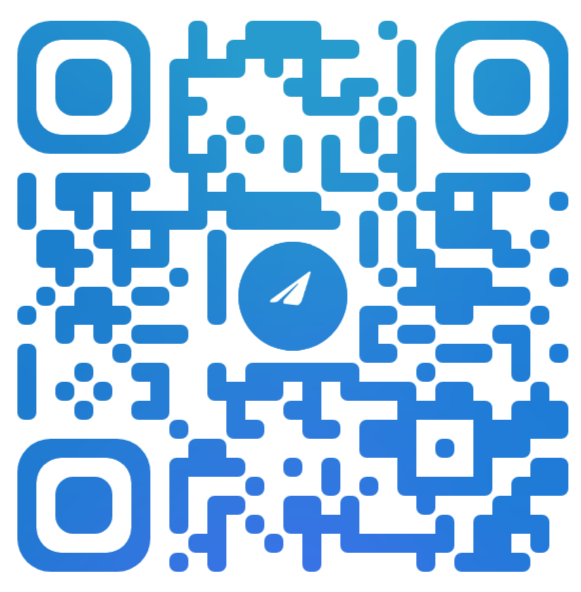
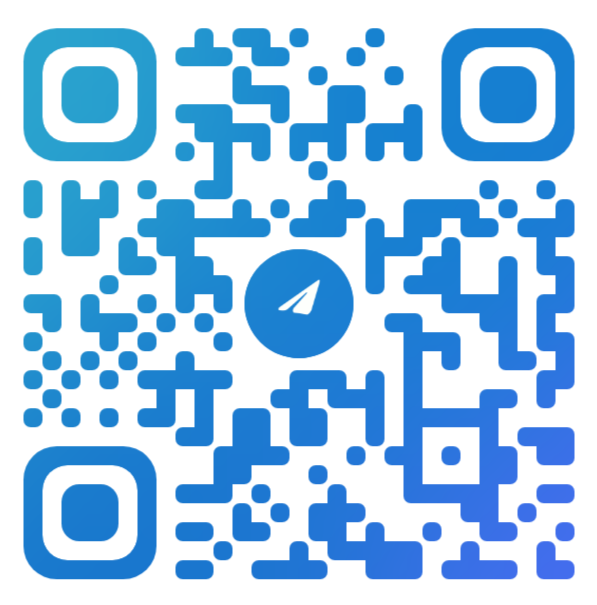
new photo and some updates for text and styles

diff --git a/src/components/hero/Hero.tsx b/src/components/hero/Hero.tsx
@@ -6,26 +6,29 @@ function Hero() {
     <div className="flex">
       <div className="w-full">
         <img className="object-contain" src={heroImg}></img>
-        <h1 className="-mt-16 text-4xl font-semibold text-slate-300/95 [text-shadow:_0_-2px_rgb(236_72_153_/_90%)]">
-          Heorhii Aksiuk{' '}
-          <span className="block text-3xl text-pink-500 [text-shadow:_0_-2px_rgb(220_220_220_/_90%)]">
-            Software Engineer
-          </span>
-        </h1>
-        <h2 className="text-xl font-semibold">Hello world!</h2>
-        <p>
-          My name is Heorhii aka Zhorik, Zhora, zhorik044, Aytivets... or even
-          Yura, Yurchyk... whatever. I'm into a lot of different stuff and love
-          cats. You can find me in a forest, in ∄ or in mosh pit. Write me if
-          you need a business card site like this or any web application.
-        </p>
-        <a
-          href="https://t.me/+380635757906"
-          // target="_blank"
-          // rel="noopener noreferrer"
-        >
-          <img className="object-contain" src={qrImg}></img>
-        </a>
+        <div className="bg-sky-400">
+          <h1 className="-mt-16 text-4xl font-semibold text-slate-300/95 [text-shadow:_0_-2px_rgb(236_72_153_/_90%)]">
+            Heorhii Aksiuk{' '}
+            <span className="block text-3xl text-pink-500 [text-shadow:_0_-2px_rgb(220_220_220_/_90%)]">
+              Software Engineer
+            </span>
+          </h1>
+          <h2 className="text-white text-xl font-semibold">Hello world!</h2>
+          <p className="text-white">
+            My name is Heorhii aka Zhorik, Zhora, zhorik044, Aytivets... or even
+            Yura, Yurchyk... whatever. I'm into a lot of different stuff and
+            love cats😺. You can find me in a forest, ∄, or hardcore mosh pit.
+            Write me if you need a business card site like this or any web
+            application.
+          </p>
+          <a
+            href="https://t.me/aytivets"
+            // target="_blank"
+            // rel="noopener noreferrer"
+          >
+            <img className="object-contain" src={qrImg}></img>
+          </a>
+        </div>
       </div>
     </div>
   );

diff --git a/src/components/AppContainer.tsx b/src/components/AppContainer.tsx
@@ -6,7 +6,9 @@ interface Props {
 
 export default function AppContainer({ children }: Props) {
   return (
-    <main>{children}</main>
+    <main className="bg-gray-700 bg-app-bg-image bg-cover bg-fixed">
+      {children}
+    </main>
     // <main className="bg-gray-700 bg-app-bg-image bg-cover bg-fixed">
     //   {children}
     // </main>

diff --git a/tailwind.config.js b/tailwind.config.js
@@ -2,7 +2,14 @@
 export default {
   content: ['./index.html', './src/**/*.{ts,tsx}'],
   theme: {
-    extend: {},
+    extend: {
+      fontFamily: {
+        poppins: ['Cute Font', 'sans-serif'],
+      },
+    },
+    backgroundImage: {
+      'app-bg-image': "url('/src/assets/images/bg.png')",
+    },
   },
   plugins: [],
 };

diff --git a/src/components/AppBar.tsx b/src/components/AppBar.tsx
@@ -12,7 +12,7 @@ function AppBar() {
             </p>
           </div>
         </div>
-        <p className="font-mono text-slate-300/85">v.0.0</p>
+        <p className="font-mono text-slate-300/85">v.0.1</p>
       </div>
     </header>
   );

diff --git a/src/components/common/Section.tsx b/src/components/common/Section.tsx
@@ -6,7 +6,7 @@ interface Props {
 
 function Section({ children }: Props) {
   return (
-    <div className="m-4">
+    <div className="m-4 mt-10">
       <section>{children}</section>
     </div>
   );
